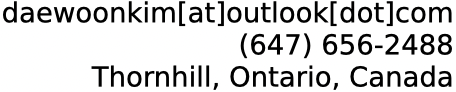
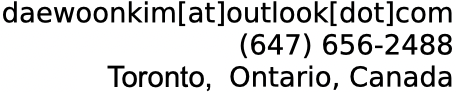
update march 26 2025 - new creds

Changed region(s): [[0.1842, 0.6957, 0.4912, 0.9783]]

diff --git a/resume.html b/resume.html
@@ -133,6 +133,17 @@
                 <tr>
                     <td>
                         <b class="inline">
+                            Foundation in Geneos
+                        </b> 
+                        - ITRS Group
+                    </td>
+                    <td class="td-right">
+                        Sep. 2024
+                    </td>
+                </tr>
+                <tr>
+                    <td>
+                        <b class="inline">
                             Foundational C# with Microsoft
                         </b> 
                         - Free Code Camp
@@ -152,7 +163,7 @@
                     </td>            
                 </tr>
             </table>
-            <p class="a-href-center">Last updated: June 13, 2024</p>
+            <p class="a-href-center">Last updated: March 26, 2025</p>
             <p id="counter" class="a-href-center">Visitor Counter: Loading...</p>
             <p class="a-href-center">Visitor counter last reset: Jan 3, 2024</p>
             <p class="a-href-center">Page is hosted by components on my <a href="https://github.com/daewoonkim2">Github</a></p>
